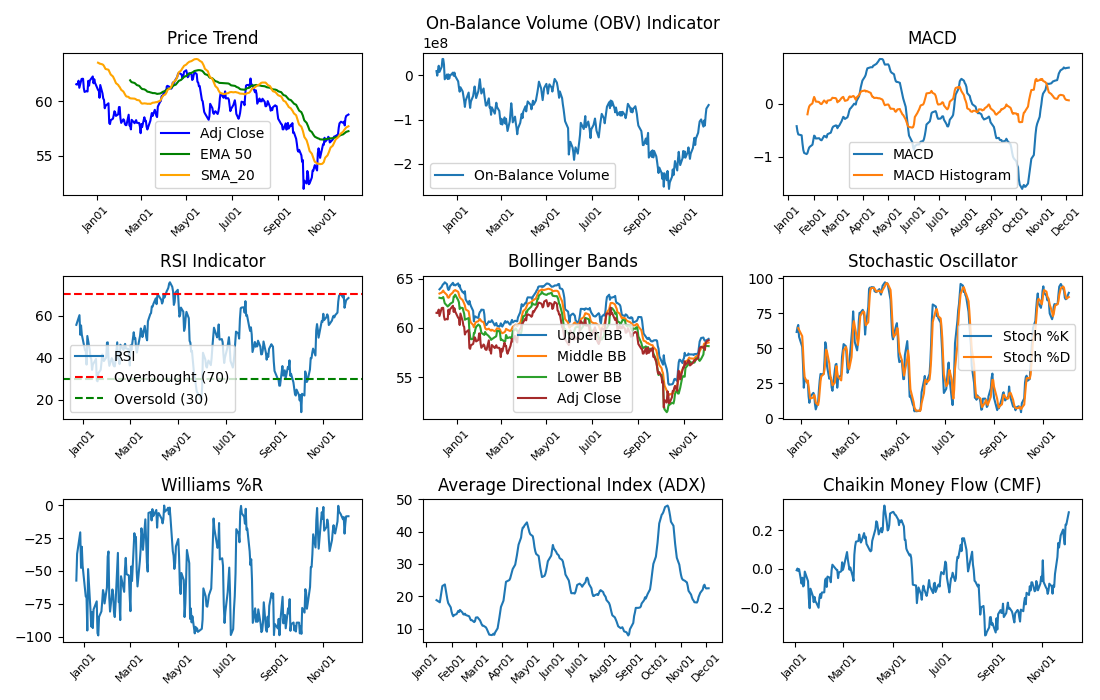
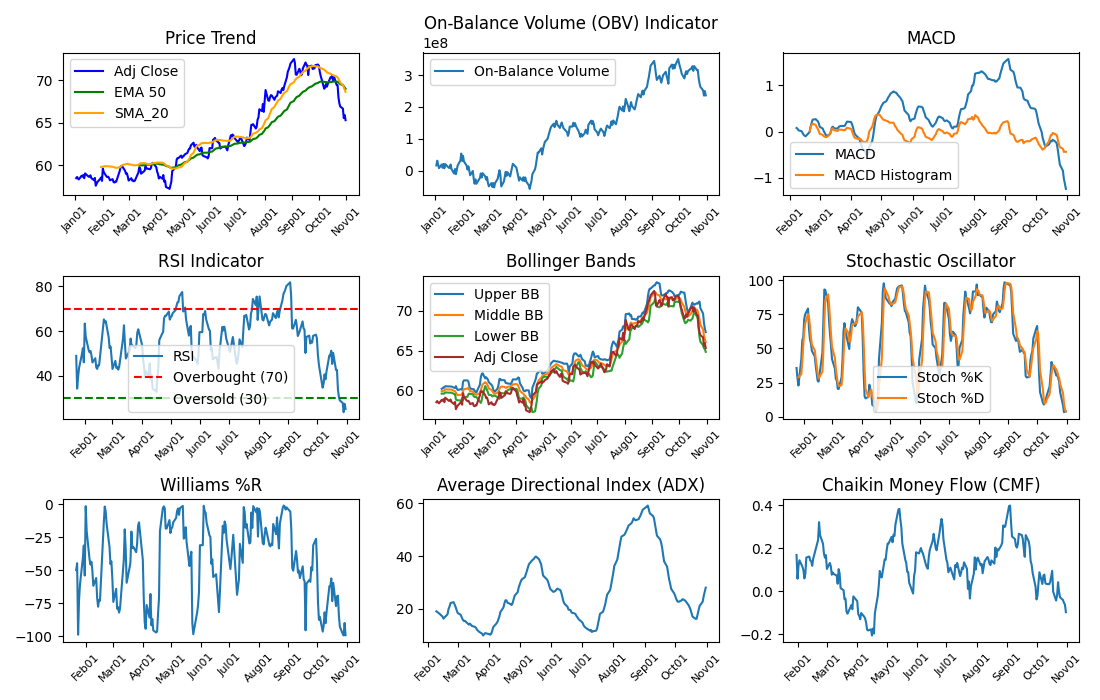
updating to day

diff --git a/scripts/stocks/ta/ta.py b/scripts/stocks/ta/ta.py
@@ -1,16 +1,47 @@
+import time
+start_time0 = time.time()
+
+# Measure the time to import each module
+start_time = time.time()
 import sys
+print(f"sys import took {time.time() - start_time:.6f} seconds")
+
+start_time = time.time()
 import json
+print(f"json import took {time.time() - start_time:.6f} seconds")
+
+start_time = time.time()
 import yfinance as yf
+print(f"yfinance import took {time.time() - start_time:.6f} seconds")
+
+start_time = time.time()
 import pandas_ta as ta
+print(f"pandas_ta import took {time.time() - start_time:.6f} seconds")
+
+start_time = time.time()
 from datetime import datetime, timedelta
-from numpy import nan as npNaN  # Ensure 'nan' is lowercase
+print(f"datetime and timedelta import took {time.time() - start_time:.6f} seconds")
 
+start_time = time.time()
+from numpy import nan as npNaN
+print(f"numpy nan import took {time.time() - start_time:.6f} seconds")
 
-# needed for graphs section
+start_time = time.time()
 import matplotlib.pyplot as plt
+print(f"matplotlib.pyplot import took {time.time() - start_time:.6f} seconds")
+
+start_time = time.time()
 import pandas as pd
+print(f"pandas import took {time.time() - start_time:.6f} seconds")
+
+start_time = time.time()
 import matplotlib.dates as mdates
-import os  # Import the os module
+print(f"matplotlib.dates import took {time.time() - start_time:.6f} seconds")
+
+start_time = time.time()
+import os
+print(f"os import took {time.time() - start_time:.6f} seconds")
+print(f"All imports took {time.time() - start_time0:.6f} seconds")
 
 
 # Redirect stdout to stderr
@@ -20,12 +51,13 @@ sys.stdout = sys.stderr
 print("Script started", file=sys.stderr)
 
 # Define the stock symbol  from command-line arguments
-# symbol = 'KO'
-symbol = sys.argv[1] if len(sys.argv) > 1 else 'DEFAULT_SYMBOL'
+symbol = 'PEP'
+#symbol = sys.argv[1] if len(sys.argv) > 1 else 'DEFAULT_SYMBOL'
 
 # Define the timeframe
 daysback = 365  #this can be parametrized and send from PHP along with the symbol
 end_date = datetime.today()
+start_date = "2024-01-01"
 
 # Debugging: Print a message before fetching stock data
 print("Fetching stock data", file=sys.stderr)
@@ -171,7 +203,7 @@ last_day_summary['new_prompt'] = new_prompt
 print("\nNew Prompt:\n", new_prompt)
 
 # Display the DataFrame and prediction
-#print("\nPrediction:", prediction)
+# print("\nPrediction:", prediction)
 
 
 ##############################################################
@@ -183,11 +215,14 @@ plt.figure(figsize=(11, 7))
 
 # Price Trend Chart
 plt.subplot(3, 3, 1)
-plt.plot(stock_data.index, stock_data['Adj Close'], label='Adj Close', color='blue')
+plt.plot(stock_data.index,
+         stock_data['Adj Close'], label='Adj Close', color='blue')
 plt.plot(stock_data.index, stock_data['EMA_50'], label='EMA 50', color='green')
-plt.plot(stock_data.index, stock_data['SMA_20'], label='SMA_20', color='orange')
+plt.plot(stock_data.index,
+         stock_data['SMA_20'], label='SMA_20', color='orange')
 plt.title("Price Trend")
-plt.gca().xaxis.set_major_formatter(mdates.DateFormatter('%b%d'))  # Format date as "Jun14"
+plt.gca().xaxis.set_major_formatter(
+    mdates.DateFormatter('%b%d'))  # Format date as "Jun14"
 plt.xticks(rotation=45, fontsize=8)  # Adjust font size
 plt.legend()
 
@@ -195,7 +230,8 @@ plt.legend()
 plt.subplot(3, 3, 2)
 plt.plot(stock_data['OBV'], label='On-Balance Volume')
 plt.title('On-Balance Volume (OBV) Indicator')
-plt.gca().xaxis.set_major_formatter(mdates.DateFormatter('%b%d'))  # Format date as "Jun14"
+plt.gca().xaxis.set_major_formatter(
+    mdates.DateFormatter('%b%d'))  # Format date as "Jun14"
 plt.xticks(rotation=45, fontsize=8)  # Adjust font size
 plt.legend()
 
@@ -204,7 +240,8 @@ plt.subplot(3, 3, 3)
 plt.plot(stock_data['MACD_12_26_9'], label='MACD')
 plt.plot(stock_data['MACDh_12_26_9'], label='MACD Histogram')
 plt.title('MACD Indicator')
-plt.gca().xaxis.set_major_formatter(mdates.DateFormatter('%b%d'))  # Format date as "Jun14"
+plt.gca().xaxis.set_major_formatter(
+    mdates.DateFormatter('%b%d'))  # Format date as "Jun14"
 plt.xticks(rotation=45, fontsize=8)  # Adjust font size
 plt.title("MACD")
 plt.legend()
@@ -215,7 +252,8 @@ plt.plot(stock_data['RSI_14'], label='RSI')
 plt.axhline(y=70, color='r', linestyle='--', label='Overbought (70)')
 plt.axhline(y=30, color='g', linestyle='--', label='Oversold (30)')
 plt.legend()
-plt.gca().xaxis.set_major_formatter(mdates.DateFormatter('%b%d'))  # Format date as "Jun14"
+plt.gca().xaxis.set_major_formatter(
+    mdates.DateFormatter('%b%d'))  # Format date as "Jun14"
 plt.xticks(rotation=45, fontsize=8)  # Adjust font size
 plt.title('RSI Indicator')
 
@@ -224,9 +262,11 @@ plt.subplot(3, 3, 5)
 plt.plot(stock_data.index, stock_data['BBU_5_2.0'], label='Upper BB')
 plt.plot(stock_data.index, stock_data['BBM_5_2.0'], label='Middle BB')
 plt.plot(stock_data.index, stock_data['BBL_5_2.0'], label='Lower BB')
-plt.plot(stock_data.index, stock_data['Adj Close'], label='Adj Close', color='brown')
+plt.plot(stock_data.index,
+         stock_data['Adj Close'], label='Adj Close', color='brown')
 plt.title("Bollinger Bands")
-plt.gca().xaxis.set_major_formatter(mdates.DateFormatter('%b%d'))  # Format date as "Jun14"
+plt.gca().xaxis.set_major_formatter(
+    mdates.DateFormatter('%b%d'))  # Format date as "Jun14"
 plt.xticks(rotation=45, fontsize=8)  # Adjust font size
 plt.legend()
 
@@ -235,7 +275,8 @@ plt.subplot(3, 3, 6)
 plt.plot(stock_data.index, stock_data['STOCHk_14_3_3'], label='Stoch %K')
 plt.plot(stock_data.index, stock_data['STOCHd_14_3_3'], label='Stoch %D')
 plt.title("Stochastic Oscillator")
-plt.gca().xaxis.set_major_formatter(mdates.DateFormatter('%b%d'))  # Format date as "Jun14"
+plt.gca().xaxis.set_major_formatter(
+    mdates.DateFormatter('%b%d'))  # Format date as "Jun14"
 plt.xticks(rotation=45, fontsize=8)  # Adjust font size
 plt.legend()
 
@@ -243,29 +284,33 @@ plt.legend()
 plt.subplot(3, 3, 7)
 plt.plot(stock_data.index, stock_data['WILLR_14'])
 plt.title("Williams %R")
-plt.gca().xaxis.set_major_formatter(mdates.DateFormatter('%b%d'))  # Format date as "Jun14"
+plt.gca().xaxis.set_major_formatter(
+    mdates.DateFormatter('%b%d'))  # Format date as "Jun14"
 plt.xticks(rotation=45, fontsize=8)  # Adjust font size
 
 # ADX Plot
 plt.subplot(3, 3, 8)
 plt.plot(stock_data.index, stock_data['ADX_14'])
 plt.title("Average Directional Index (ADX)")
-plt.gca().xaxis.set_major_formatter(mdates.DateFormatter('%b%d'))  # Format date as "Jun14"
+plt.gca().xaxis.set_major_formatter(
+    mdates.DateFormatter('%b%d'))  # Format date as "Jun14"
 plt.xticks(rotation=45, fontsize=8)  # Adjust font size
 
 # CMF Plot
 plt.subplot(3, 3, 9)
 plt.plot(stock_data.index, stock_data['CMF_20'])
 plt.title("Chaikin Money Flow (CMF)")
-plt.gca().xaxis.set_major_formatter(mdates.DateFormatter('%b%d'))  # Format date as "Jun14"
+plt.gca().xaxis.set_major_formatter(
+    mdates.DateFormatter('%b%d'))  # Format date as "Jun14"
 plt.xticks(rotation=45, fontsize=8)  # Adjust font size
 
 # Debugging: Print a message before saving plots
 print("Saving plots", file=sys.stderr)
 
 # Save the plots as images
-plot_images_dir = "/var/www/html/pyethone/scripts/ta/images"  # Change this to the actual path
-#os.makedirs(plot_images_dir, exist_ok=True)  # Ensure the directory exists
+# Change this to the actual path
+plot_images_dir = "/var/www/html/pyethone/scripts/ta/images"
+# os.makedirs(plot_images_dir, exist_ok=True)  # Ensure the directory exists
 
 plot_paths = []  # Store the paths of saved plots
 

diff --git a/scripts/stocks/app/closing.py b/scripts/stocks/app/closing.py
@@ -1,0 +1,133 @@
+####################################################################################################################
+# File reads the tickers.csv file and for each ticker in the file gets the latest closing price from yfinance
+# The closing price is then inserted in daily_stock_data table (while checking if for the date was already inserted in which case it overwrites the value)
+# Scripts also logs in var and in an errors.log files the errors (tickers of values not found in the api) and the overwriting cases
+#
+# Still //TODO
+#  - make a connection between daily_stock_data and the stocks table in order to only return the stock ID (checking if this is a faster and efficient method)
+# -  decide which errors should be send by email to the admin after the script runs
+#####################################################################################################################
+
+import csv
+import yfinance as yf
+import datetime
+import logging
+import mysql.connector
+
+# Set up logging
+logging.basicConfig(level=logging.INFO,
+                    format='%(asctime)s - %(levelname)s - %(message)s')
+
+# Initialize an empty list to store error messages
+error_log = []
+
+# MySQL database connection details
+HOST = "localhost"
+USER = "danielne_app"
+PASSWORD = "Piedone1976!!"
+DATABASE = "danielne_stocks"
+
+# Set up logging to a file
+file_handler = logging.FileHandler('errors.log')
+file_handler.setLevel(logging.ERROR)
+file_formatter = logging.Formatter('%(asctime)s - %(levelname)s - %(message)s')
+file_handler.setFormatter(file_formatter)
+logger = logging.getLogger()
+logger.addHandler(file_handler)
+
+
+def read_stock_symbols(file_name):
+    """Read stock symbols from a CSV file"""
+    with open(file_name, 'r') as file:
+        reader = csv.reader(file)
+        return [row[0].replace('.', '-') for row in reader]
+
+
+def get_latest_closing_price(symbol):
+    """Get the latest closing price for a stock symbol"""
+    try:
+        ticker = yf.Ticker(symbol)
+        data = ticker.history(period='1d')
+        if data.empty:
+            raise ValueError(f"No data found for {symbol}")
+        return data['Close'].iloc[-1]
+    except Exception as e:
+        # Log the error message to the error_log list
+        error_log.append(f"Error for {symbol}: {e}")
+        logger.error(f"Error for {symbol}: {e}")
+        return None
+
+
+def get_stock_id(symbol):
+    """Get the stock ID based on the symbol"""
+    # Return the stock ticker as the stock ID
+    return symbol
+
+
+def process_stock_symbol(symbol):
+    """Process a stock symbol"""
+    latest_closing_price = get_latest_closing_price(symbol)
+    if latest_closing_price is not None:
+        data_date = datetime.datetime.now().strftime("%Y-%m-%d")
+
+        # Connect to the MySQL database
+        connection = mysql.connector.connect(
+            host=HOST,
+            user=USER,
+            password=PASSWORD,
+            database=DATABASE
+        )
+
+        # Create a cursor object
+        cursor = connection.cursor()
+
+        # Check if the symbol already has a value for the date
+        select_query = """
+        SELECT * FROM daily_stock_data
+        WHERE stock_id = %s AND date = %s
+        """
+        cursor.execute(select_query, (symbol, data_date))
+
+        # If a row is found, update the existing value
+        if cursor.fetchone():
+            update_query = """
+            UPDATE daily_stock_data
+            SET closing_price = %s
+            WHERE stock_id = %s AND date = %s
+            """
+            cursor.execute(
+                update_query, (latest_closing_price, symbol, data_date))
+            logger.error(f"Overwrote existing value for {
+                         symbol} on {data_date}")
+        # If no row is found, insert a new value
+        else:
+            insert_query = """
+            INSERT INTO daily_stock_data (stock_id, date, closing_price)
+            VALUES (%s, %s, %s)
+            """
+            cursor.execute(
+                insert_query, (symbol, data_date, latest_closing_price))
+
+        # Commit the changes
+        connection.commit()
+
+        # Close the connection
+        connection.close()
+    else:
+        logger.error(f"Failed to get data for {symbol}")
+
+
+def main():
+    stock_symbols = read_stock_symbols('tickers.csv')
+    total_symbols = len(stock_symbols)
+
+    for index, symbol in enumerate(stock_symbols):
+        process_stock_symbol(symbol)
+        progress = ((index + 1) / total_symbols) * 100
+        print(f"Progress: {progress:.2f}%")
+
+    print("All done!")
+
+
+if __name__ == "__main__":
+    main()
